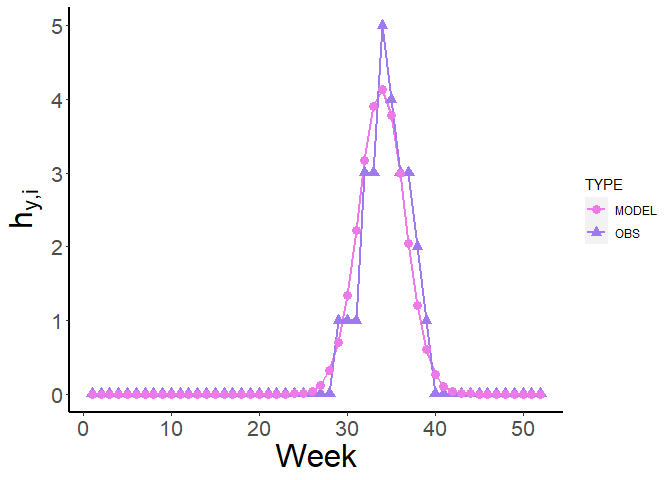
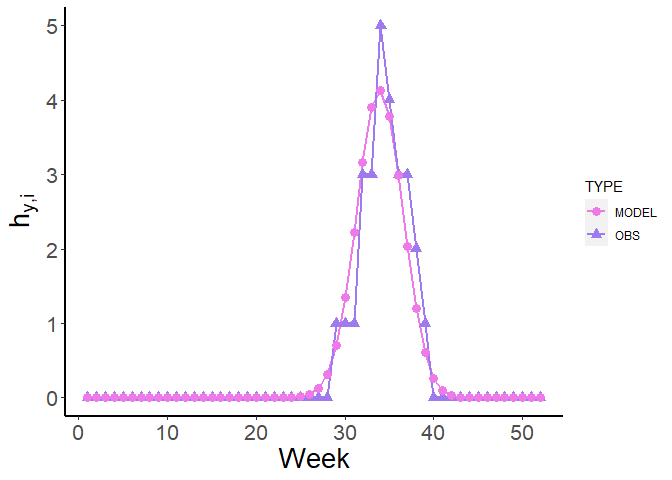
changes 10-4-24

Changed region(s): [[0.0, 0.0, 0.8438, 1.0], [0.875, 0.375, 0.9688, 0.5]]

diff --git a/README.md b/README.md
@@ -19,16 +19,19 @@ distribution. There are two main assumptions beneath our analysis:
 2.  The FOI has a seasonal pattern. This is the case of many
     vector-borne pathogens at temperate latitudes.
 
+This modelling approach was first presented in (Marini et al. 2022).
+
 # Modelling details
 
 Let us assume we are considering some epidemiological data gathered
-between years $Y_1, ..., Y_n$ in some regions. We denote by $h_{y,i}(w)$
-the number of recorded cases with region $i$ as place of infection with
-symptoms onset occurred during week $w$ of year $y$ ($w\in\{1, …, 52\}$,
-$y\in\{Y_1, ..., Y_n\}$), by $H_{y,i}$ the whole time series,
-i.e. $H_{y,i}=\bigcup_{w=1}^{52} h_{y,i}(w)$, and by $\sum_{y,i}$ the
-total number of cases with place of infection identified as i recorded
-during year y, i.e. $\sum_{y,i}=\sum_{w=1}^{52}h_{y,i}(w)$.
+between $n$ years $Y_1, ..., Y_n$ in some regions. We denote by
+$h_{y,i}(w)$ the number of recorded cases with region $i$ as place of
+infection with symptoms onset occurred during week $w$ of year $y$
+($w\in\{1, …, 52\}$, $y\in\{Y_1, ..., Y_n\}$), by $H_{y,i}$ the whole
+time series, i.e. $H_{y,i}=\bigcup_{w=1}^{52} h_{y,i}(w)$, and by
+$\sum_{y,i}$ the total number of cases with place of infection
+identified as i recorded during year y,
+i.e. $\sum_{y,i}=\sum_{w=1}^{52}h_{y,i}(w)$.
 
 For the analysis, we assume $h_{y,i}(w)$ belongs to a Poisson
 distribution with average $\sum_{t\in T_W} N_i \cdot \lambda_{y,i}(t)$,
@@ -100,8 +103,7 @@ of interest.
 cases_df$ONSET_DATE=as.Date(cases_df$ONSET_DATE)
 
 my_theme=theme(panel.background = element_blank(),
-               axis.title=element_text(size=24), axis.text=element_text(size=16),
-               plot.tag=element_text(size=22))
+               axis.title=element_text(size=20), axis.text=element_text(size=16))
 
 hist_week=ggplot(data=cases_df)+
   geom_bar(aes(x=ONSET_DATE))+
@@ -111,7 +113,7 @@ hist_week=ggplot(data=cases_df)+
 hist_week
 ```
 
-![](README_files/figure-gfm/preliminary_plots-1.png)<!-- -->
+<img src="README_files/figure-gfm/preliminary_plots-1.png" width="100%" style="display: block; margin: auto;" />
 
 So cases are recorded seasonally, which is one of the major requirements
 for our modelling approach.
@@ -196,7 +198,7 @@ plot(output_model$OBSERVED_TOTAL,output_model$MODEL_TOTAL,
 abline(a=0,b=1)
 ```
 
-![](README_files/figure-gfm/fit_quality-1.png)<!-- -->
+<img src="README_files/figure-gfm/fit_quality-1.png" style="display: block; margin: auto;" />
 
 So there is quite a good agreement between the two quantities. We can
 also evaluate the average squared error as
@@ -241,7 +243,7 @@ ggplot(df_to_plot,aes(x=WEEK,y=CASES))+
   scale_color_manual(values=c("orchid2","mediumpurple2"))
 ```
 
-![](README_files/figure-gfm/curves_comparison-1.png)<!-- -->
+<img src="README_files/figure-gfm/curves_comparison-1.png" width="100%" style="display: block; margin: auto;" />
 
 # References
 
